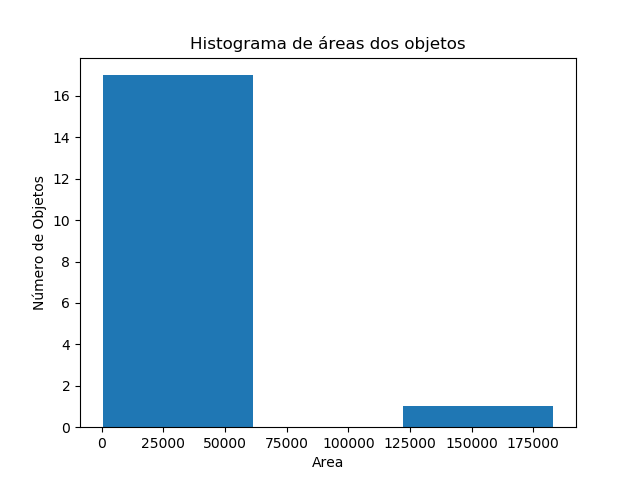
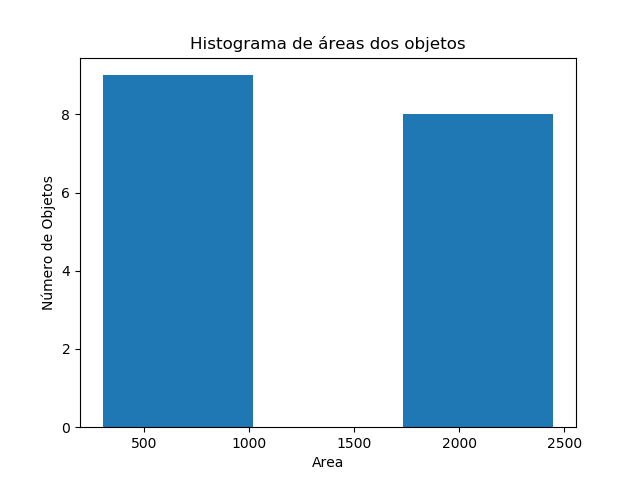
trab3 almost done

diff --git a/trab3/main.py b/trab3/main.py
@@ -3,6 +3,7 @@ import sys
 import os
 import numpy as np
 from matplotlib import pyplot as plt
+from skimage.measure import label, regionprops
 
 def readImage(filepath):
     return cv2.imread(filepath, cv2.IMREAD_COLOR)
@@ -11,25 +12,26 @@ def saveImage(filepath, image):
     cv2.imwrite(filepath, image)
 
 def convertColors(image):
-    img = np.copy(image)
     (image_r, image_g, image_b) = cv2.split(img)
     for x in range(image.shape[0]):
-        for y in range(image.shape[1]):
-            img[x][y] = (int(image_r[x][y]) + int(image_g[x][y]) + int(image_b[x][y]))/3
+       for y in range(image.shape[1]):
+           img[x][y] = (int(image_r[x][y]) + int(image_g[x][y]) + int(image_b[x][y]))/3
     return img
 
 def getEdges(image):
-    img = cv2.Canny(image,100,200)
+    img = cv2.Canny(image, 100, 200)
     return np.where(img == 0, 255, 0)
 
-def getCentroid(image):  
+def getContours(image):  
     img = np.copy(image)
     gray_image = cv2.cvtColor(img, cv2.COLOR_BGR2GRAY)  
-    ret, thresh = cv2.threshold(gray_image,127,255,0)
+    ret, thresh = cv2.threshold(gray_image, 200, 255, 0)
     contours, hierarchy = cv2.findContours(thresh, 1, 2)
-    i=0
+    i = 0
+    areas = np.zeros(len(contours) - 1)
+    contours.reverse()
+    contours = contours[1:]
     print("Número de regiões: ", len(contours), "\n") 
-    areas = np.zeros(len(contours))
     for c in contours:
         # calculate moments for each contour
         M = cv2.moments(c)
@@ -38,7 +40,7 @@ def getCentroid(image):
         cX = int(M["m10"] / M["m00"])
         cY = int(M["m01"] / M["m00"])
 
-        cv2.putText(img, str(i), (cX-4, cY+4), cv2.FONT_HERSHEY_SIMPLEX, 0.3, (0, 0, 0), 1)
+        cv2.putText(img, str(i), (cX-4, cY+4), cv2.FONT_HERSHEY_SIMPLEX, 0.35, (0, 0, 0), 0)
         # Area
         areas[i] = cv2.contourArea(c)
         # Perimeter
@@ -63,6 +65,10 @@ def getAreasHistogram(areas, filepath):
     areasNumber[0] = len(areas[areas < 1500])
     areasNumber[1] = len([a for a in areas if a >= 1500 and a < 3000])
     areasNumber[2] = len(areas[areas >= 3000])
+    print("número de regiões pequenas:", int(areasNumber[0]))
+    print("número de regiões médias:", int(areasNumber[1]))
+    print("número de regiões grandes:", int(areasNumber[2]))
+
     plt.title('Histograma de áreas dos objetos')
     plt.xlabel('Area')
     plt.ylabel('Número de Objetos')
@@ -83,10 +89,10 @@ if __name__ == '__main__':
     img = convertColors(image)
     saveImage(out_path + out_file + "_1.png", img)
 
-    img = getEdges(image)
+    img = getEdges(img)
     saveImage(out_path + out_file + "_2.png", img)
 
-    (img, areas) = getCentroid(image)
+    (img, areas) = getContours(image)
     saveImage(out_path + out_file + "_3.png", img)
 
     getAreasHistogram(areas, out_path + out_file + "_4.png")
